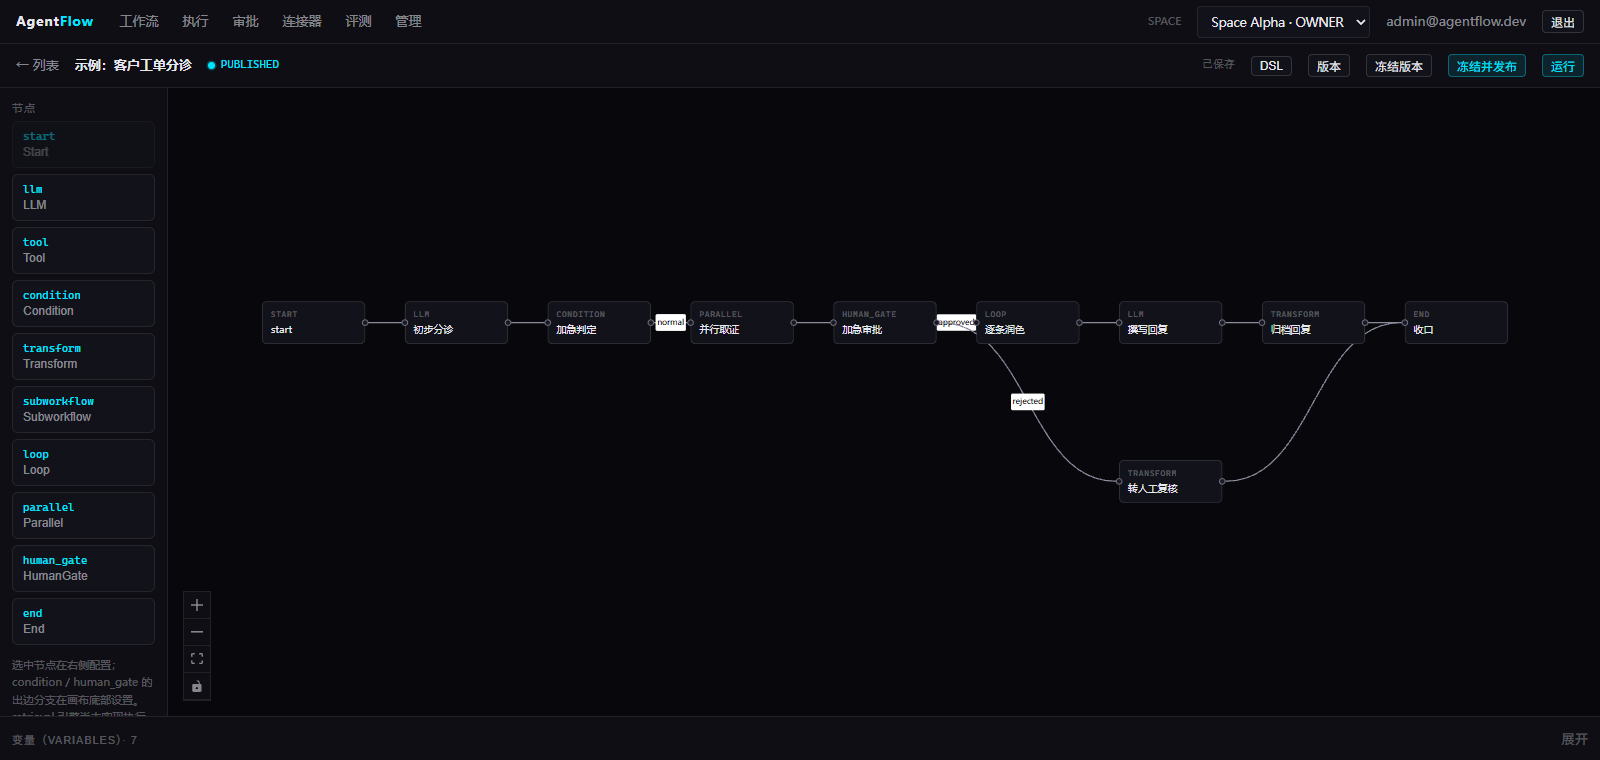
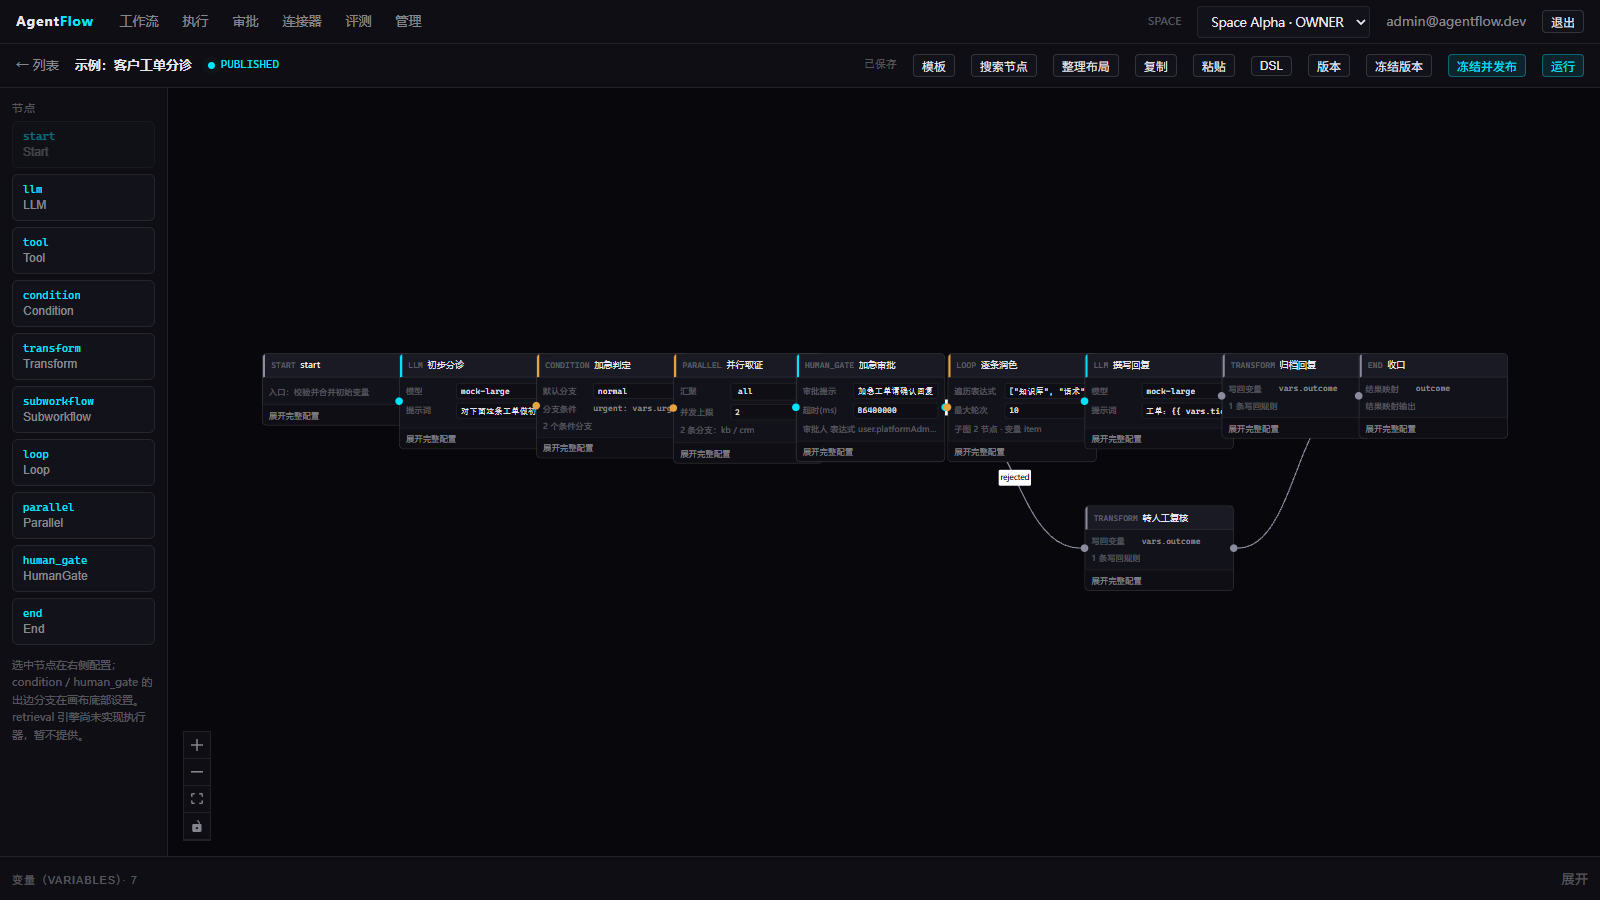
docs: 更新界面截图、使用指南与架构 §18
- README 界面段与画布交互段改写，补快速编排与执行图视图说明
- CHANGELOG 记 Unreleased 新增项；architecture 增 §18 前端呈现层改造（边界、卡片、交互、执行态复用、验收）
- docs/images/canvas.png / execution.png 换成实机新界面截图

diff --git a/README.md b/README.md
@@ -62,13 +62,15 @@ flowchart LR
 
 画布交互：单击选中节点或连线，`Delete` 删除（删节点会级联删掉它的进出连线），`Esc` 或点空白处取消选中，底部浮条会显示当前选中项并提供删除按钮。`start` 全局唯一：已有 start 时节点面板里的 start 置灰，避免建出第二个起点。
 
+快速编排：双击画布空白处或按 `空格` 唤起节点搜索，输入「审批」「并行」「循环」等中文名回车即落位；落位前若已选中节点，会自动补一条连线。「模板」提供三个经过本地校验的常用骨架（只替换草稿，不影响已发布版本）；「整理布局」按依赖层级折行排布，长链不再被缩成一条细线；`Ctrl+C` / `Ctrl+V` 复制粘贴选中节点（`start` 仍全局唯一）；`Shift` 拖拽框选、`Ctrl` 多选；落线前即时拦下自连、`end` 往外连、重复连线等非法操作。卡片只放高频字段，点「展开完整配置」进原抽屉；「DSL」仍是同一份数据的 JSON 视图。
+
 分支连线：选中从 `condition` / `human_gate` 出发的连线，浮条里会多出 `branch` 输入框，下拉给的是该节点的 case 名（审批节点固定 `approved` / `rejected`），也可直接填。同一节点的分支名不允许重复；分支名不在 cases / elseBranch 里时，校验会提示该分支永远走不到。
 
 子图画布：选中 `loop` / `parallel` 节点，在配置抽屉里点「在画布中编辑」进入该节点的 `body` / 某个 `branches` 分支——画布顶部出现面包屑，点根节点可退回整图。子图内是同一个编辑器：拖节点、连边、选中即配；不能放 `start`（入口由上层节点决定），也不需要 `end`（出口由上层节点收口，与引擎一致）。整图则必须留一个 `end`，删掉最后一个会被拒绝并说明原因。子图里的配置仍写回同一份 DSL，退出/刷新都不丢；「高级」里的 JSON 与表单是同一份数据的两个视图。
 
 ## 界面
 
-画布编排（内置示例「客户工单分诊」：分诊 → 加急判定 → 并行取证 → 人工审批 → 循环润色 → 回复 → 归档回复 → 收口，另有一条驳回支路）：
+画布编排（内置示例「客户工单分诊」：分诊 → 加急判定 → 并行取证 → 人工审批 → 循环润色 → 回复 → 归档回复 → 收口，另有一条驳回支路）：节点是带分类色标题栏的卡片，模型 / 表达式 / 分支 / 超时等高频参数直接写在卡片上，改完即时落进 DSL；端口按类别着色，连线是曲线。工具条提供「模板 / 搜索节点 / 整理布局 / 复制 / 粘贴 / DSL」，完整配置抽屉与 JSON 视图保留为高级模式。
 
 ![画布](docs/images/canvas.png)
 
@@ -76,9 +78,11 @@ flowchart LR
 
 ![审批中心](docs/images/approvals.png)
 
-执行详情：一条已通过审批、跑完整条链路的执行。左栏节点树由 SSE 实时点亮，包含并行分支的子节点
-（`gather#kb#kb_hit`）、循环每轮的 `polish#0` / `polish#1` 与被跳过的 `notify`；点节点看输入输出原文
-（失败时还会就地给出错误码与原因），右栏是 token / steps / traceId 与最终产出。
+执行详情：默认用**同一张画布**呈现执行态——取执行当时冻结的不可变版本 DSL，节点按状态着色
+（强调=挂起/进行、中性=完成、危险=失败、灰=跳过），进行中的节点有呼吸边框；并行分支与循环轮次的
+状态聚合到根层卡片，卡片上直接给出输出摘要或失败原因。点节点看输入 / 输出原文，右栏是
+token / steps / traceId 与最终产出。需要逐个看子节点（如 `gather#kb#kb_hit`、`polish#0#polish_sign`）
+时切到「节点列表」标签，原来的完整列表一栏不少；SSE 实时态对两个视图同时生效。
 
 ![执行详情](docs/images/execution.png)
 

diff --git a/CHANGELOG.md b/CHANGELOG.md
@@ -5,6 +5,13 @@
 
 ## [Unreleased]
 
+### 新增
+
+- **ComfyUI 式节点画布**：`WorkflowNode` 改为带分类色标题栏的卡片，模型 / 表达式 / 分支 / 超时等高频参数内联可编辑，端口按类别着色；`ConfigDrawer`（全字段配置）与 `DslSourcePanel`（JSON 视图）原样保留，收进「展开完整配置 / DSL」高级入口，字段逻辑一行未重写。
+- **快速编排**：双击画布或按空格唤起中文节点搜索，落位时自动补连线；三个经过 `validateDslLocal` 校验的模板骨架（只替换草稿，不影响已发布版本）；「整理布局」按依赖层级折行排布；`Ctrl+C` / `Ctrl+V` 复制粘贴、`Shift` 框选；落线前即时拦下自连、`end` 往外连与重复连线。
+- **执行详情图视图**：取执行冻结版本的不可变 `dslJson` 复用同一张画布，节点按状态着色、进行中的节点有呼吸边框；子图与循环轮次的状态按最严重值聚合到根层卡片，卡片内联输出摘要与失败原因。「节点列表」标签完整保留原扁平列表，SSE 实时态对两个视图同时生效；DSL 取不到时自动回退列表，不让页面留白。
+- 设计系统新增 `--af-node-control` 分类令牌；状态色仍严格守强调 / 危险 / 中性三色，`design-redlines` 守卫不破。
+
 ### 修复
 
 - **运行弹窗不再让执行在 `start` 节点就失败**：`initialVariables` 初值改为按 DSL 声明类型
